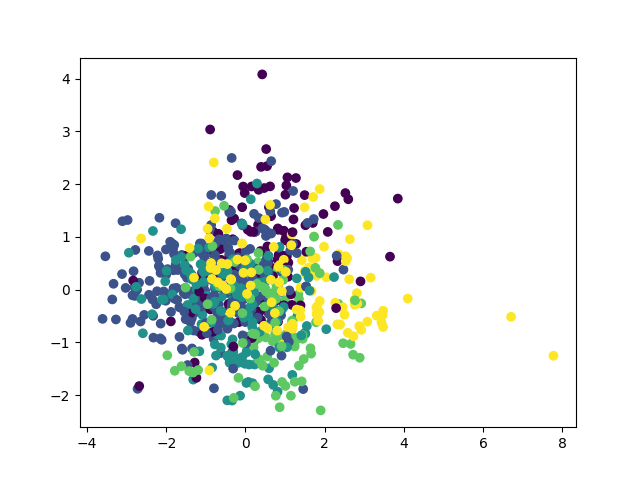
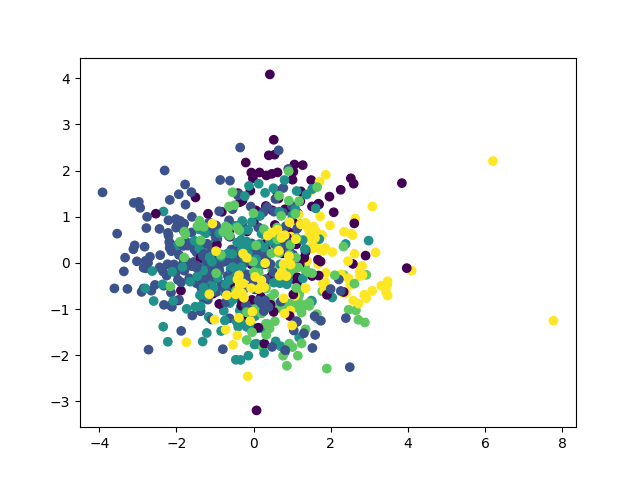
as close to pseudo code as possible

diff --git a/src/playground.py b/src/playground.py
@@ -1,6 +1,3 @@
-
-import dis
-from math import dist
 import sys
 import pandas as pd
 
@@ -11,6 +8,18 @@ from sklearn.decomposition import PCA
 from sklearn.utils.extmath import svd_flip
 from matplotlib import pyplot as plt
 import os
+
+def plot(projected_data, labels, figname):
+    '''
+    Input:
+        lowDDataMat: the 2-d data after PCA transformation obtained from pca function
+        labelMat: the corresponding label of each observation obtained from loadData
+    '''
+    print(np.shape(projected_data))
+    projected_data = np.transpose(projected_data)
+    #print(lowDDataMatT)
+    plt.scatter(projected_data[0],projected_data[1], c=labels)
+    plt.savefig(figname)
 
 def load_dataset(dataset_path='iris_with_cluster.csv', seperate_feats=True):
     df = pd.read_csv(dataset_path)
@@ -46,32 +55,89 @@ def split_dataset(dataset_path, n_chunks, write=True):
 def round_one(P_i, n_components):
         mean = np.mean(P_i, axis=0)
         P_i -= mean
-        U, D, E_T = linalg.svd(P_i, full_matrices=False)
+        #print(f'data shape = {np.shape(local_datasets[i])}')
+        U_i, D_i, E_i_T = linalg.svd(P_i)
+        #print(f'U shape = {np.shape(U_i)}')
+        #print(f'D shape = {np.shape(D_i)}')
+        #print(f'E_T shape = {np.shape(E_i_T)}')
         # flip eigenvectors' sign to enforce deterministic output
-        U, E_T = svd_flip(U, E_T)
-        #print(D)
-        #print(D[:n_components])
-    #
-        #print()
-    #
-        #print(np.transpose(E_T))
-        #print(np.transpose(E_T[:n_components]))
-        return D[:n_components], np.transpose(E_T[:n_components])
+        #u, e_T = svd_flip(u, e_T)
+        
+        D_i_t = np.zeros_like(P_i)
+        for i in range(n_components):
+            D_i_t[i][i] = D_i[i]
+        #print(f'D_t shape = {np.shape(D_i_t)}')
+        #print(D_i)
+        #print(D_i_t)
 
-def round_two(singular_values_recv, singular_vectors_recv, P_i, n_components, id):
-    g_cov_mat = np.zeros((n_components, n_components))
-    P_i = P_i.to_numpy()
+        # algo way to get P_i_t
+        P_i_t = matmul(U_i, D_i_t)
+        P_i_t = matmul(P_i_t, E_i_T)
+        #
+        
+        # my way
+        #P_i_t = matmul(P_i, np.transpose(E_i_T[:n_components]))
+        #
+
+        #print(f'P_i_t {P_i_t}')
+        #print(f'data shape after t = {np.shape(local_datasets[i])}')
+
+        return D_i[:n_components], np.transpose(E_i_T[:n_components]), P_i_t
+
+def round_two(singular_values_recv, singular_vectors_recv, P_i_t, n_components):
+    #P_i_t = P_i_t.to_numpy()
+    #print(f'shape of local data {np.shape(P_i_t)}')
+
+    g_cov_mat = np.zeros((np.shape(P_i_t)[1], np.shape(P_i_t)[1]))  #either txt or dxd? 
+    
+    #print(f'shape of g_cov_mat {np.shape(g_cov_mat)}')
+
+    #for data from each node
     for i in range(len(singular_values_recv)):
+        
+        D_i_t = np.zeros((np.shape(P_i_t)[0], n_components))
+        for j in range(n_components):
+            D_i_t[j][j] = singular_values_recv[i][j]
+
+        #print(f'D_t shape = {np.shape(d_i_t)}')
+
+        E_i_t = singular_vectors_recv[i] 
+        #print(f'E_t shape = {np.shape(e_i_t)}')
+        
+
+        #One way to get cov mats
+        
+        cov_mat = np.matmul(E_i_t, np.transpose(D_i_t))
+        cov_mat = np.matmul(cov_mat, D_i_t)
+        cov_mat = np.matmul(cov_mat, np.transpose(E_i_t))
+        
+        #second way to get cov mats
+        """
         D_t = np.diag(singular_values_recv[i])
         #print(f'D_t shape = {np.shape(D_t)}')
 
         E_t = singular_vectors_recv[i]
         #print(f'E_t shape = {np.shape(E_t)}')
-
-        P_i_t = np.matmul(P_i, E_t) 
+                            #p = n x d
+        
+        P_i_t = np.matmul(P, E_t) #E_t = d x t # projection of 
+        # local data on t components using its own singular vectors
+        
         cov_mat = np.matmul(np.transpose(P_i_t), P_i_t)
         g_cov_mat = np.add(g_cov_mat, cov_mat) 
-    
+        # E = d x d -> first t columns 
+        #E_t * (D_t)transpose = d x t * t x n
+        #(E_t * (D_t)transpose) * D_t = d x n * n x t = d x t 
+        #d x t * t x d = d x d 
+        #should be t x t 
+        """
+
+
+        g_cov_mat = np.add(g_cov_mat, cov_mat) 
+
+
+    # CERTAIN ABOUT BELOW 
+
     eigen_values, eigen_vectors = np.linalg.eig(g_cov_mat)
     #print(f'eigen_values: {eigen_values}')
     #print(f'eigen_vectors: {eigen_vectors}')
@@ -86,47 +152,42 @@ def round_two(singular_values_recv, singular_vectors_recv, P_i, n_components, id
 
     sorted_eigen_vectors = sorted_eigen_vectors[:, :n_components]
     #print(f't eigen_vectors: {sorted_eigen_vectors}')
-    P_i_t = np.matmul(P_i, singular_vectors_recv[id]) 
     P_i_hat = np.matmul(P_i_t, sorted_eigen_vectors)
-    P_i_hat = np.matmul(P_i_hat, np.transpose(sorted_eigen_vectors))
+    #P_i_hat = np.matmul(P_i_hat, np.transpose(sorted_eigen_vectors)) ## adding this means no dim reduction on transform
     return P_i_hat
 
         
     #np.concatenate(cov_mats, axis=0)
     #print(g_cov_mat)
 
-def plot(projected_data, labels, figname):
-    '''
-    Input:
-        lowDDataMat: the 2-d data after PCA transformation obtained from pca function
-        labelMat: the corresponding label of each observation obtained from loadData
-    '''
-
-    projected_data = np.transpose(projected_data)
-    #print(lowDDataMatT)
-    plt.scatter(projected_data[0],projected_data[1], c=labels)
-    plt.savefig(figname)
-
 if __name__ == "__main__":
     
     n_nodes = 5
-    #dataset_path = '/datasets/cho/cho.csv'
-    dataset_path = '/datasets/iris/iris_with_cluster.csv'
+    dataset_path = '/datasets/cho/cho.csv'
+    #dataset_path = '/datasets/iris/iris_with_cluster.csv'
     dataset_path = os.getcwd() + dataset_path
     n_components = 2
 
-    ### central
+    
+    
     data_mat, label_mat = load_dataset(dataset_path)
     label_mat = np.array(label_mat)
-    pca = PCA(n_components)  # project from 64 to 2 dimensions
-    projected_2 = pca.fit_transform(data_mat)
-    print(np.shape(projected_2))
-    plot(projected_2, label_mat, 'central')
+
+    ### og data
+    #plot(data_mat., label_mat, 'og-data')
+
+    #print(np.shape(data_mat))
     
+    ### central
+    pca = PCA(n_components) 
+    projected_2 = pca.fit_transform(data_mat)
+    #print(np.shape(projected_2))
+    plot(projected_2, label_mat, 'central')
+
+
 
 
     local_data, local_labels = split_dataset(dataset_path, n_nodes, write=False)
-
 
     """
     local_data = []
@@ -139,22 +200,27 @@ if __name__ == "__main__":
 
     singular_values_recv = []
     singular_vectors_recv = []
-
-    for d in local_data:
-        D_t, E_t = round_one(d, n_components)
+    P_i_t_recv = []
+    for i in range(n_nodes):
+        D_t, E_t, P_t = round_one(local_data[i], n_components)
         singular_values_recv.append(D_t)
         singular_vectors_recv.append(E_t)
+        P_i_t_recv.append(P_t)
+
+    print('end round 1')
 
     P_i_hats_recv = []
     for i in range(n_nodes):
-        P_i_hats_recv.append(round_two(singular_values_recv, singular_vectors_recv, local_data[i], n_components, i))
-    
+        P_hat = round_two(singular_values_recv, singular_vectors_recv, P_i_t_recv[i], n_components)
+        P_i_hats_recv.append(P_hat)
+    print('end round 2')
+
     projected_1 = np.concatenate(P_i_hats_recv, axis=0)
     dist_label_mat = np.concatenate(local_labels, axis=0)
     dist_label_mat = np.array(dist_label_mat)
 
     plot(projected_1, dist_label_mat, 'distributed')
-    print(np.shape(projected_1))
+    #print(np.shape(projected_1))
     #print()
     #print()
     #print()

diff --git a/src/pca_p2p_node.py b/src/pca_p2p_node.py
@@ -1,6 +1,7 @@
 import imp
 import p2p_node
 import numpy as np
+from matplotlib import pyplot as plt
 
 
 class PCANode(p2p_node.Node):
@@ -8,10 +9,8 @@ class PCANode(p2p_node.Node):
         super().__init__(hostname, port, id, max_connections, debug)
 
         self.n_components = t
-        self.df = data
+        self.df = data.to_numpy()
         self.mean = None
-        
-
 
         self.singular_values_recv = {}
         self.singular_vectors_recv = {}
@@ -20,23 +19,38 @@ class PCANode(p2p_node.Node):
 
     
     def round_one(self):
+        self.debug_print(f'Node.round1: ')
         self.mean = np.mean(self.df, axis=0)
         self.df -= self.mean
-        self.left_singular_vectors, self.singular_values, self.right_singular_vectors = np.linalg.svd(self.df, full_matrices=False)
-        self.left_singular_vectors, self.right_singular_vectors = np.linalg.svd_flip(self.left_singular_vectors, self.right_singular_vectors)
+        self.U, self.S, V_T = np.linalg.svd(self.df, full_matrices=False)
+        self.U, V_T = np.linalg.svd_flip(self.U, V_T)
 
-        self.singular_values = self.singular_values[:self.n_components]
-        self.right_singular_vectors = np.transpose(self.right_singular_vectors[:self.n_components])
-        self.debug_print(f'Node.round1: ')
-
+        self.S = self.S[:self.n_components]
+        self.V = np.transpose(V_T[:self.n_components])
 
         msg = {}
-        msg['singular_values'] = np.ndarray.tolist(self.singular_values)
-        msg['singular_vectors'] = np.ndarray.tolist(self.right_singular_vectors)
+        #msg['singular_values'] = np.ndarray.tolist(self.S)
+        msg['singular_vectors'] = np.ndarray.tolist(self.V)
         self.broadcast(msg)
 
     def round_two(self):
-        pass
+        self.g_cov_mat = np.zeros((self.n_components, self.n_components))
+    
+        for id, V_t in self.singular_vectors_recv.items():
+            P_i_t = np.matmul(self.df, V_t) 
+            cov_mat = np.matmul(np.transpose(P_i_t), P_i_t)
+            self.g_cov_mat = np.add(self.g_cov_mat, cov_mat) 
+
+        eigen_values, eigen_vectors = np.linalg.eig(self.g_cov_mat)
+        eigen_stuff = list(zip(eigen_values, eigen_vectors))
+        eigen_stuff = sorted(eigen_stuff, key=lambda x: x[0], reverse=True)
+        sorted_eigen_values, sorted_eigen_vectors = zip(*eigen_stuff)
+        sorted_eigen_vectors = np.array(sorted_eigen_vectors)
+        sorted_eigen_vectors = sorted_eigen_vectors[:, :self.n_components]
+        self.P_i_hat = np.matmul(P_i_t, sorted_eigen_vectors)
+        P_i_hat = np.matmul(P_i_hat, np.transpose(sorted_eigen_vectors))
+
+
 
     def message_handler(self, sender_id, msg):
         super().message_handler(sender_id, msg)    
@@ -52,7 +66,11 @@ class PCANode(p2p_node.Node):
                 else:
                     self.debug_print(f'Node.message_handler: Unknown key {key}')
 
-        # TODO: add more robust compare? 
-        if len(self.P_i_hats_recv) >= len(self.connections):
-            #self.P_hat = 
-            pass
+        # TODO: add more robust comparisions? 
+        if len(self.singular_vectors_recv) >= len(self.connections): #got V from all nodes
+            self.round_two()
+        
+        if len(self.P_i_hats_recv) >= len(self.connections): 
+            self.P_hat = np.concatenate(self.P_i_hats_recv.values(), axis=0)
+
+    
